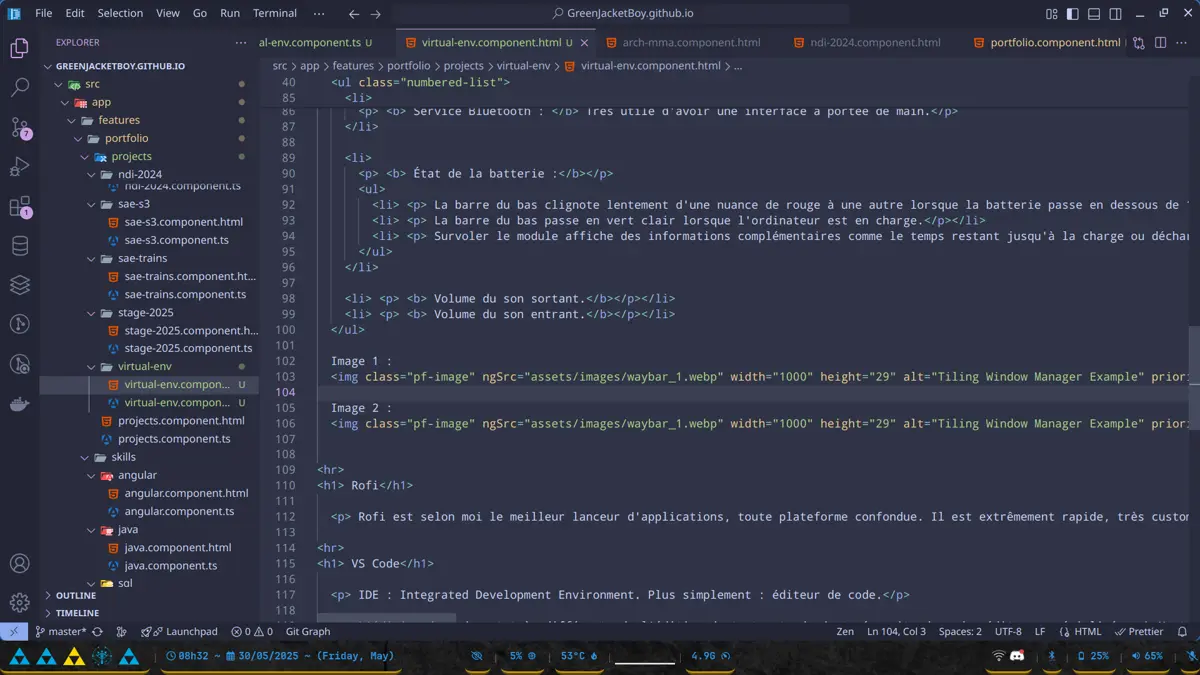
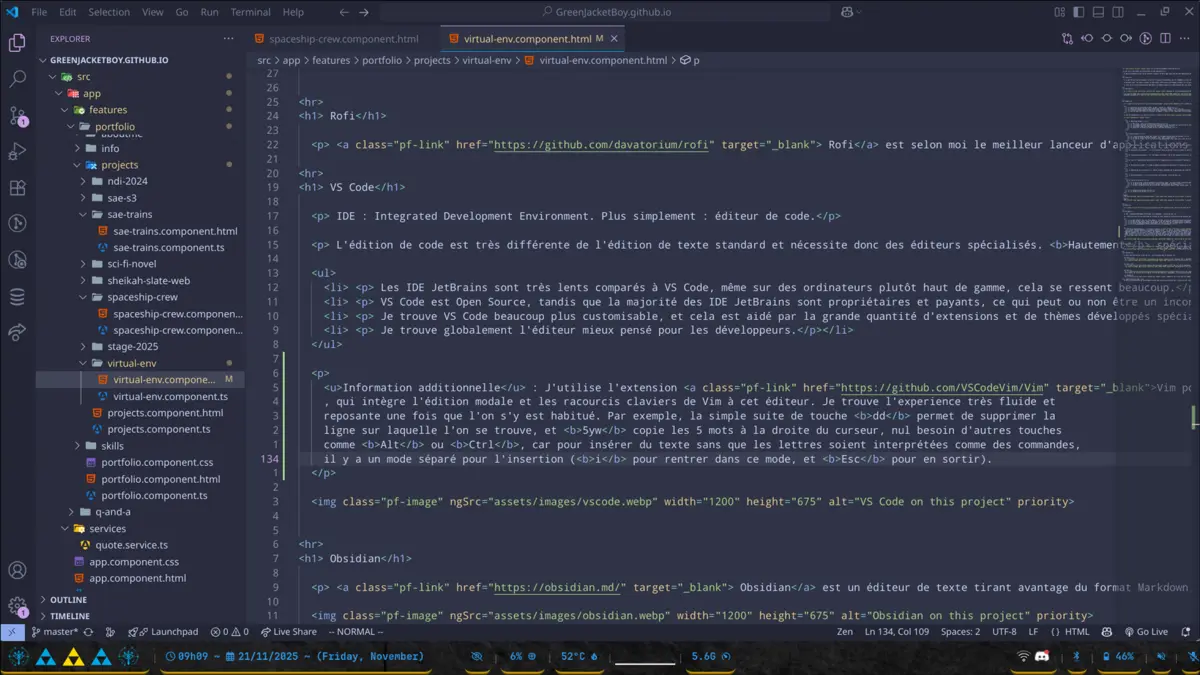
portfolio: updated virtual env page with vim and new kitty screenshot

diff --git a/src/app/features/portfolio/projects/virtual-env/virtual-env.component.html b/src/app/features/portfolio/projects/virtual-env/virtual-env.component.html
@@ -125,6 +125,15 @@
     <li> <p> Je trouve globalement l'éditeur mieux pensé pour les développeurs.</p></li>
   </ul>
 
+  <p> 
+    <u>Information additionnelle</u> : J'utilise l'extension <a class="pf-link" href="https://github.com/VSCodeVim/Vim" target="_blank">Vim pour VS Code</a>
+    , qui intègre l'édition modale et les racourcis claviers de Vim à cet éditeur. Je trouve l'experience très fluide et 
+    reposante une fois que l'on s'y est habitué. Par exemple, la simple suite de touches <b>dd</b> permet de supprimer la 
+    ligne sur laquelle l'on se trouve, et <b>5yw</b> copie les 5 mots à la droite du curseur, nul besoin d'autres touches 
+    comme <b>Alt</b> ou <b>Ctrl</b>, car pour insérer du texte sans que les lettres ne soient interprétées comme des commandes, 
+    il y a un mode séparé pour l'insertion (<b>i</b> pour rentrer dans ce mode, et <b>Esc</b> pour en sortir).
+  </p>
+
   <img class="pf-image" ngSrc="assets/images/vscode.webp" width="1200" height="675" alt="VS Code on this project" priority>
 
 
